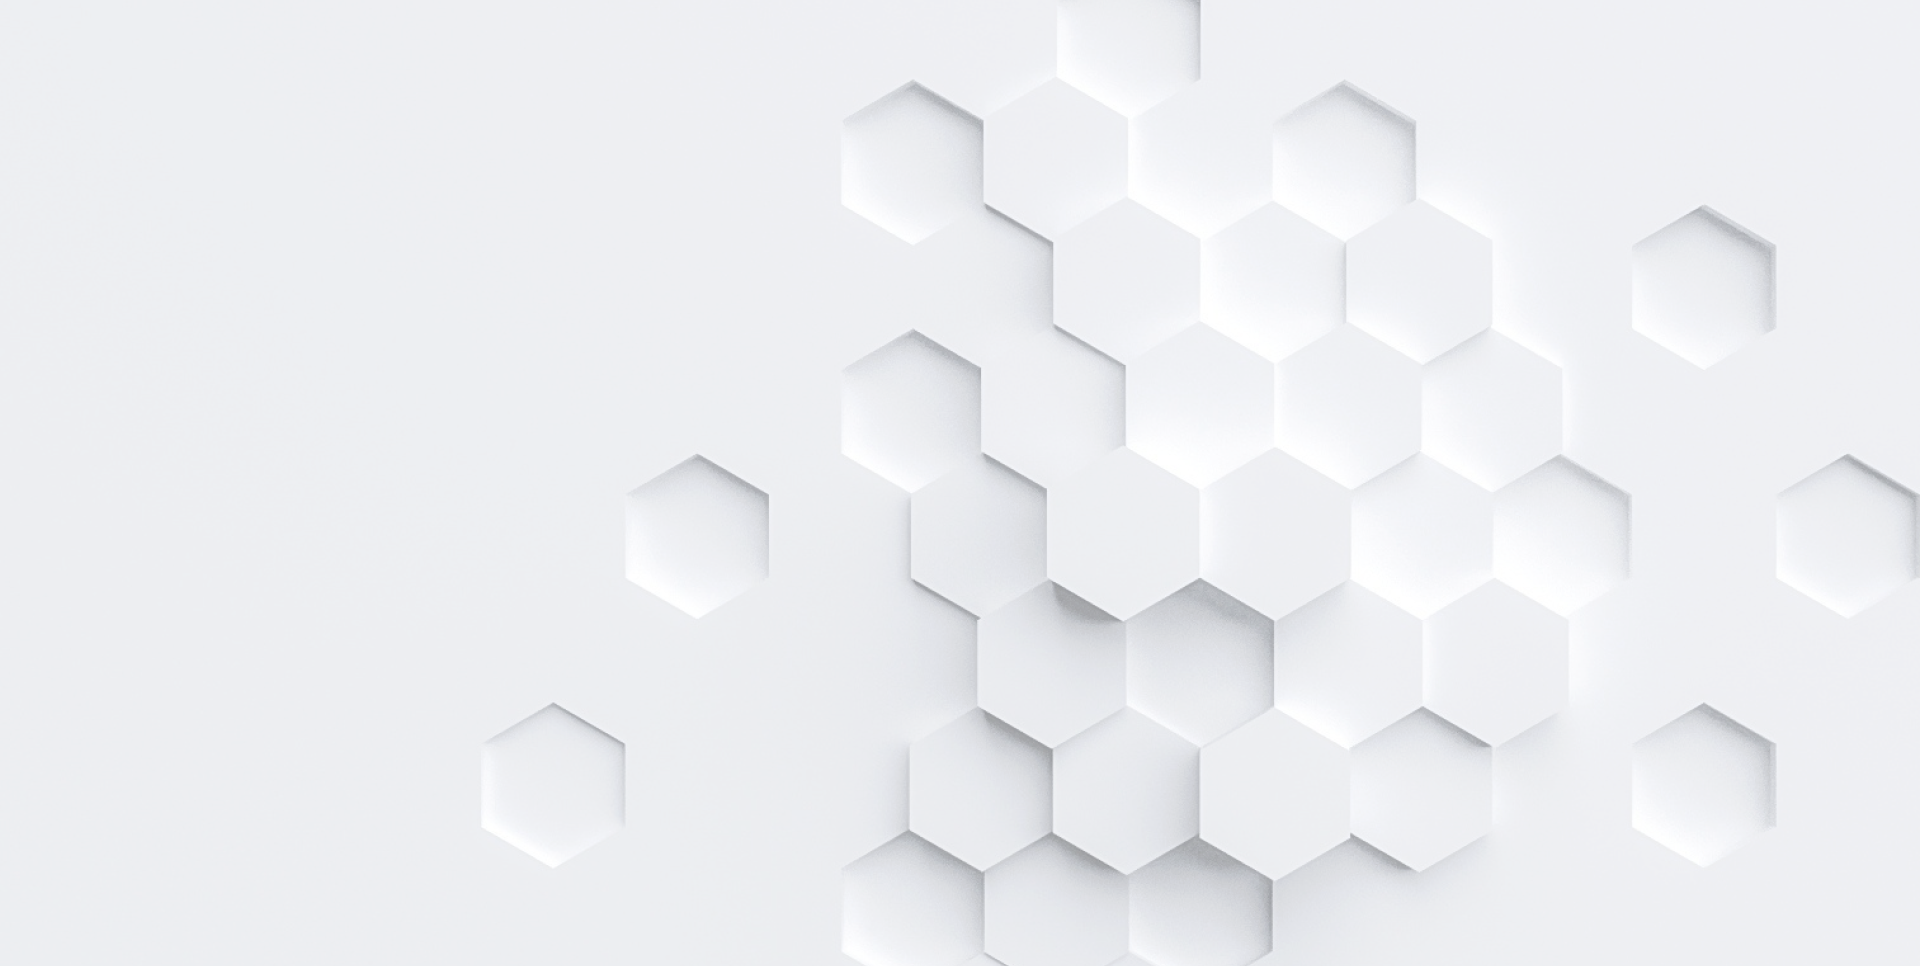
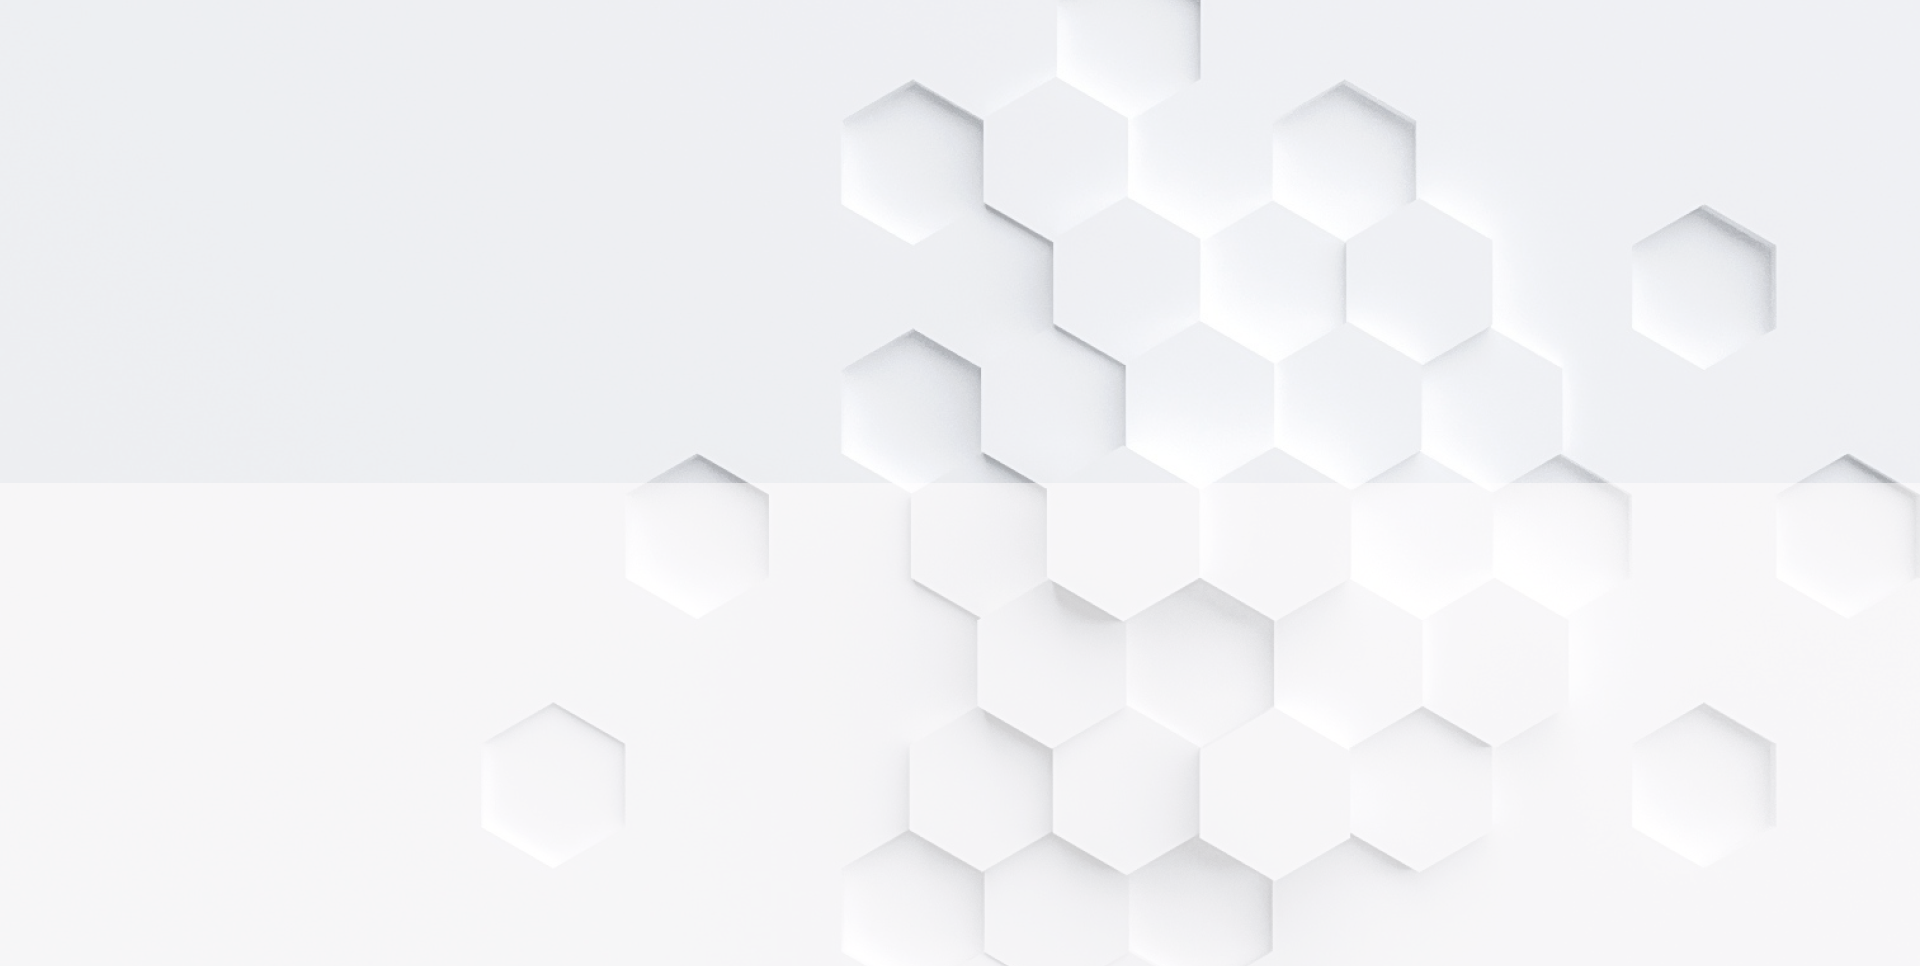
Fixed background and started work on course page

diff --git a/src/app/company/company-page/company-page.component.html b/src/app/company/company-page/company-page.component.html
@@ -1,0 +1,29 @@
+<title>{{title}}</title>
+<section class="info">
+    <div class="info-container">
+        <h1 class="info__title">Компания</h1>
+        <p class="info__description">
+            Hidster Studio специализируется на разрабоке заказного
+            программного обеспечения, а также на IT-аутсорсинге.
+            Реализуем полный жизненный цикл, разрабатываемых программных
+            продуктов: проектирование, разработка, поддержка.
+        </p>
+        <p class="info__description">
+            Мы делаем сложные вещи простыми и доступными людям,
+            заставляя технологии работать на нас и для нас.
+        </p>
+    </div>
+</section>
+
+<section class="project-map">
+    <div class="project-map-container">
+        <h1 class="project-map__title">Как мы работаем</h1>
+        <ul class="project-map-list">
+            <li class="project-map-list__element">Разрабатываем прототип продукта (согласовываем его с вами)</li>
+            <li class="project-map-list__element">Разрабатываем его дизайн (согласовываем его с вами)</li>
+            <li class="project-map-list__element">Разрабатываем сам продукт (согласуем его с вами)</li>
+            <li class="project-map-list__element">Тестируем его</li>
+            <li class="project-map-list__element">Публикуем его в сети или в магазинах приложений (если это потребуется)</li>
+        </ul>
+    </div>
+</section>

diff --git a/src/app/company/company-routing.module.ts b/src/app/company/company-routing.module.ts
@@ -1,14 +1,14 @@
 import { NgModule } from '@angular/core';
 import { RouterModule, Routes } from '@angular/router';
 
-import { HomePageComponent } from './home-page/home-page.component';
+import { CompanyPageComponent } from './company-page/company-page.component';
 
 const routes: Routes = [
-  { path: '', component: HomePageComponent },
+  { path: '', component: CompanyPageComponent },
 ];
 
 @NgModule({
   imports: [RouterModule.forChild(routes)],
   exports: [RouterModule],
 })
-export class HomeRoutingModule { }
+export class CompanyRoutingModule { }

diff --git a/src/app/layout/header/header.component.html b/src/app/layout/header/header.component.html
@@ -3,7 +3,7 @@
         <img src="../../../assets/img/header/header-logo.svg" alt="Logo">
         <nav>
             <ul class="header-nav">
-                <li class="header__link">Компания</li>
+                <li class="header__link" routerLink="/company" routerLinkActive="active">Компания</li>
                 <li class="header__link">Направления</li>
                 <li class="header__link">Проекты</li>
                 <li class="header__link">Контакты</li>

diff --git a/src/app/layout/layout.module.ts b/src/app/layout/layout.module.ts
@@ -1,5 +1,6 @@
 import { NgModule } from '@angular/core';
 import { CommonModule } from '@angular/common';
+import { RouterModule } from '@angular/router';
 
 import { HeaderComponent } from './header/header.component';
 import { FooterComponent } from './footer/footer.component';
@@ -12,6 +13,7 @@ import { FooterComponent } from './footer/footer.component';
   ],
   imports: [
     CommonModule,
+    RouterModule,
   ],
   exports: [
     HeaderComponent,

diff --git a/src/app/app-routing.module.ts b/src/app/app-routing.module.ts
@@ -3,10 +3,10 @@ import { RouterModule, Routes } from '@angular/router';
 
 const routes: Routes = [
   {
-    path: 'home',
-    loadChildren: () => import('./home').then((m) => m.HomeModule),
+    path: 'company',
+    loadChildren: () => import('./company').then((m) => m.CompanyModule),
   },
-  { path: '', redirectTo: '/home', pathMatch: 'full' },
+  { path: '', redirectTo: '/company', pathMatch: 'full' },
 ];
 
 @NgModule({

diff --git a/src/app/company/company.module.ts b/src/app/company/company.module.ts
@@ -1,0 +1,17 @@
+import { NgModule } from '@angular/core';
+import { CommonModule } from '@angular/common';
+
+import { CompanyRoutingModule } from './company-routing.module';
+import { CompanyPageComponent } from './company-page/company-page.component';
+
+
+@NgModule({
+  declarations: [
+    CompanyPageComponent,
+  ],
+  imports: [
+    CommonModule,
+    CompanyRoutingModule,
+  ],
+})
+export class CompanyModule { }

diff --git a/src/app/company/company-page/company-page.component.ts b/src/app/company/company-page/company-page.component.ts
@@ -1,0 +1,16 @@
+import { Component, OnInit } from '@angular/core';
+
+@Component({
+  selector: 'app-company-page',
+  templateUrl: './company-page.component.html',
+  styleUrls: ['./company-page.component.scss'],
+})
+export class CompanyPageComponent implements OnInit {
+
+  public title = 'Компания';
+  constructor() { }
+
+  public ngOnInit(): void {
+  }
+
+}

diff --git a/src/app/course/course.module.ts b/src/app/course/course.module.ts
@@ -1,0 +1,14 @@
+import { NgModule } from '@angular/core';
+import { CommonModule } from '@angular/common';
+
+import { CourseRoutingModule } from './course-routing.module';
+
+
+@NgModule({
+  declarations: [],
+  imports: [
+    CommonModule,
+    CourseRoutingModule
+  ]
+})
+export class CourseModule { }

diff --git a/src/app/course/course-routing.module.ts b/src/app/course/course-routing.module.ts
@@ -1,0 +1,10 @@
+import { NgModule } from '@angular/core';
+import { RouterModule, Routes } from '@angular/router';
+
+const routes: Routes = [];
+
+@NgModule({
+  imports: [RouterModule.forChild(routes)],
+  exports: [RouterModule]
+})
+export class CourseRoutingModule { }

diff --git a/src/app/company/company-page/company-page.component.scss b/src/app/company/company-page/company-page.component.scss
@@ -22,8 +22,7 @@
   }
 }
 
-.projectmap {
-  background: rgba(255, 253, 253, 0.5);
+.project-map {
   padding: 95px 0 70px;
 
   &-container {

diff --git a/src/app/layout/footer/footer.component.scss b/src/app/layout/footer/footer.component.scss
@@ -1,5 +1,4 @@
 .footer {
-  background-color: rgba(255, 253, 253, 0.5);
 
   &-container {
     max-width: 1582px;

diff --git a/src/app/layout/header/header.component.scss b/src/app/layout/header/header.component.scss
@@ -39,3 +39,7 @@
     color: #141b69;
   }
 }
+
+.active {
+  color: #ff8833;
+}
